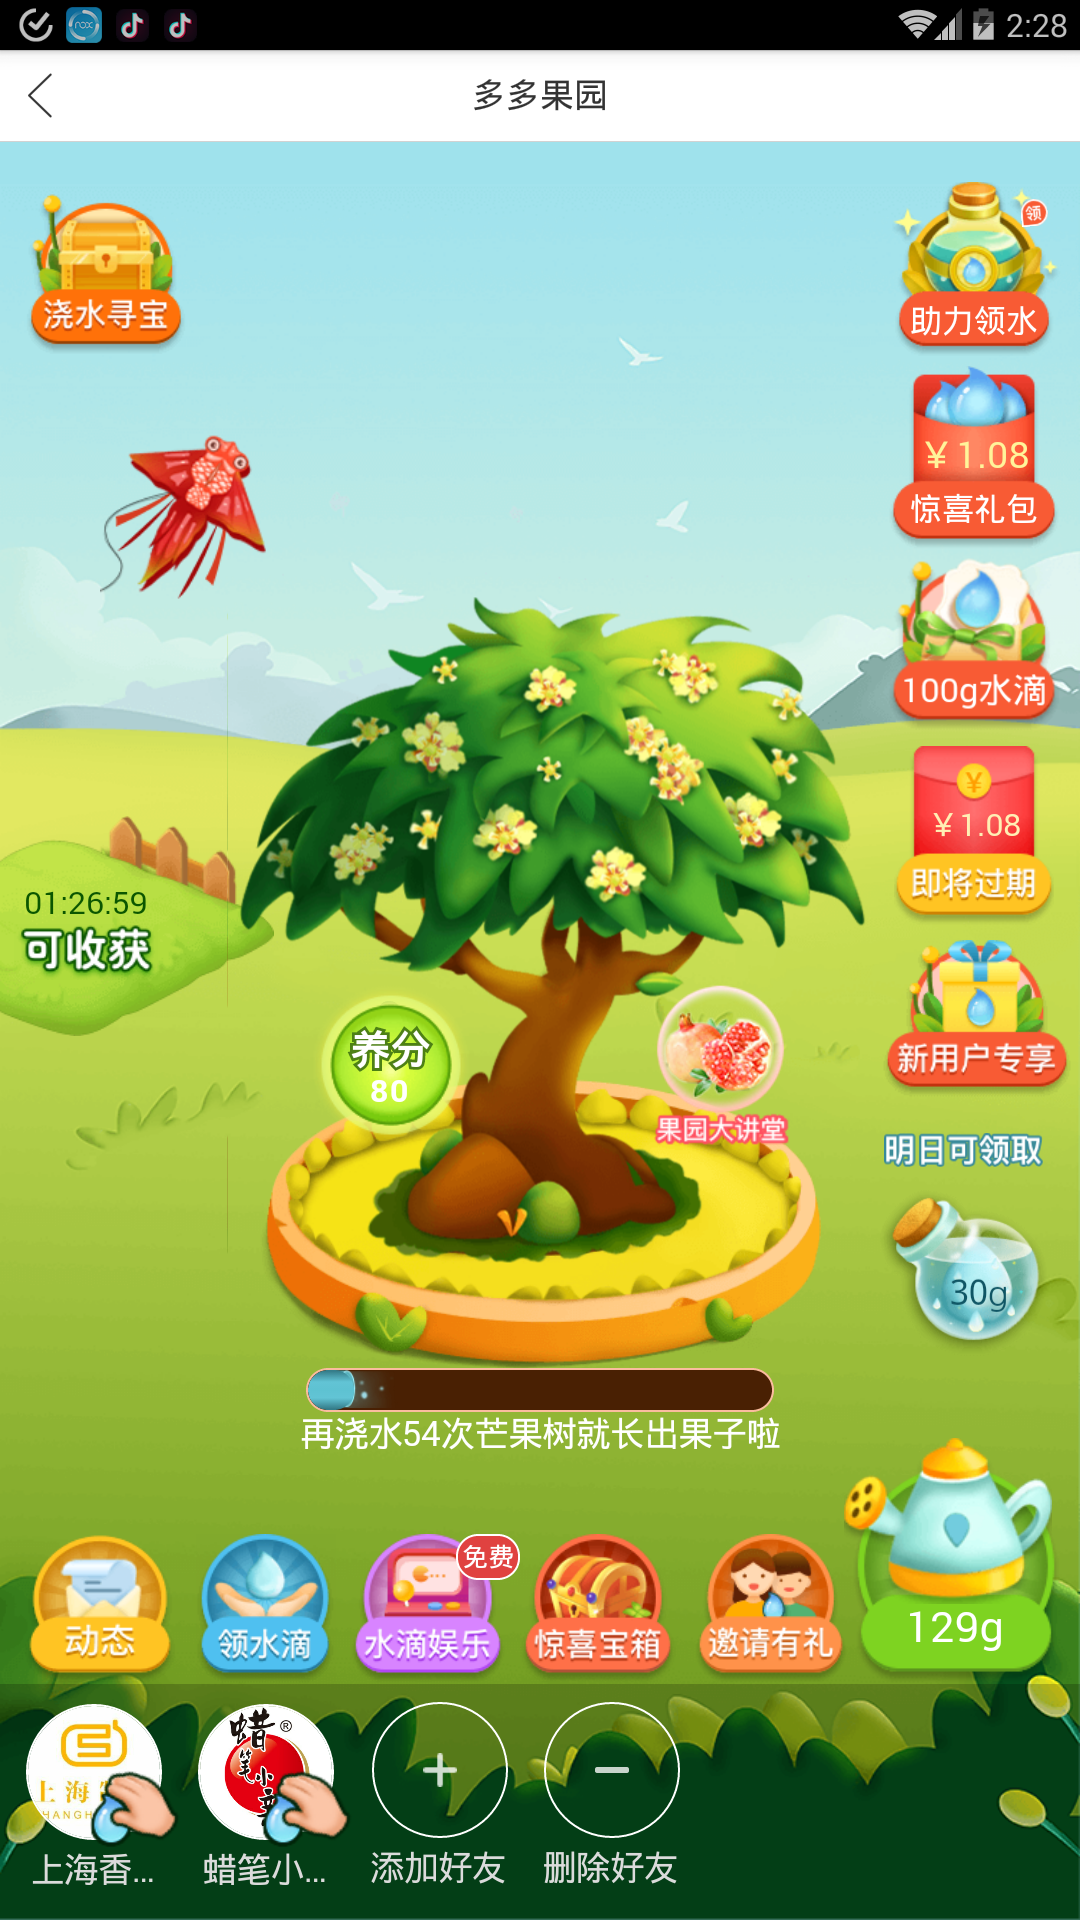
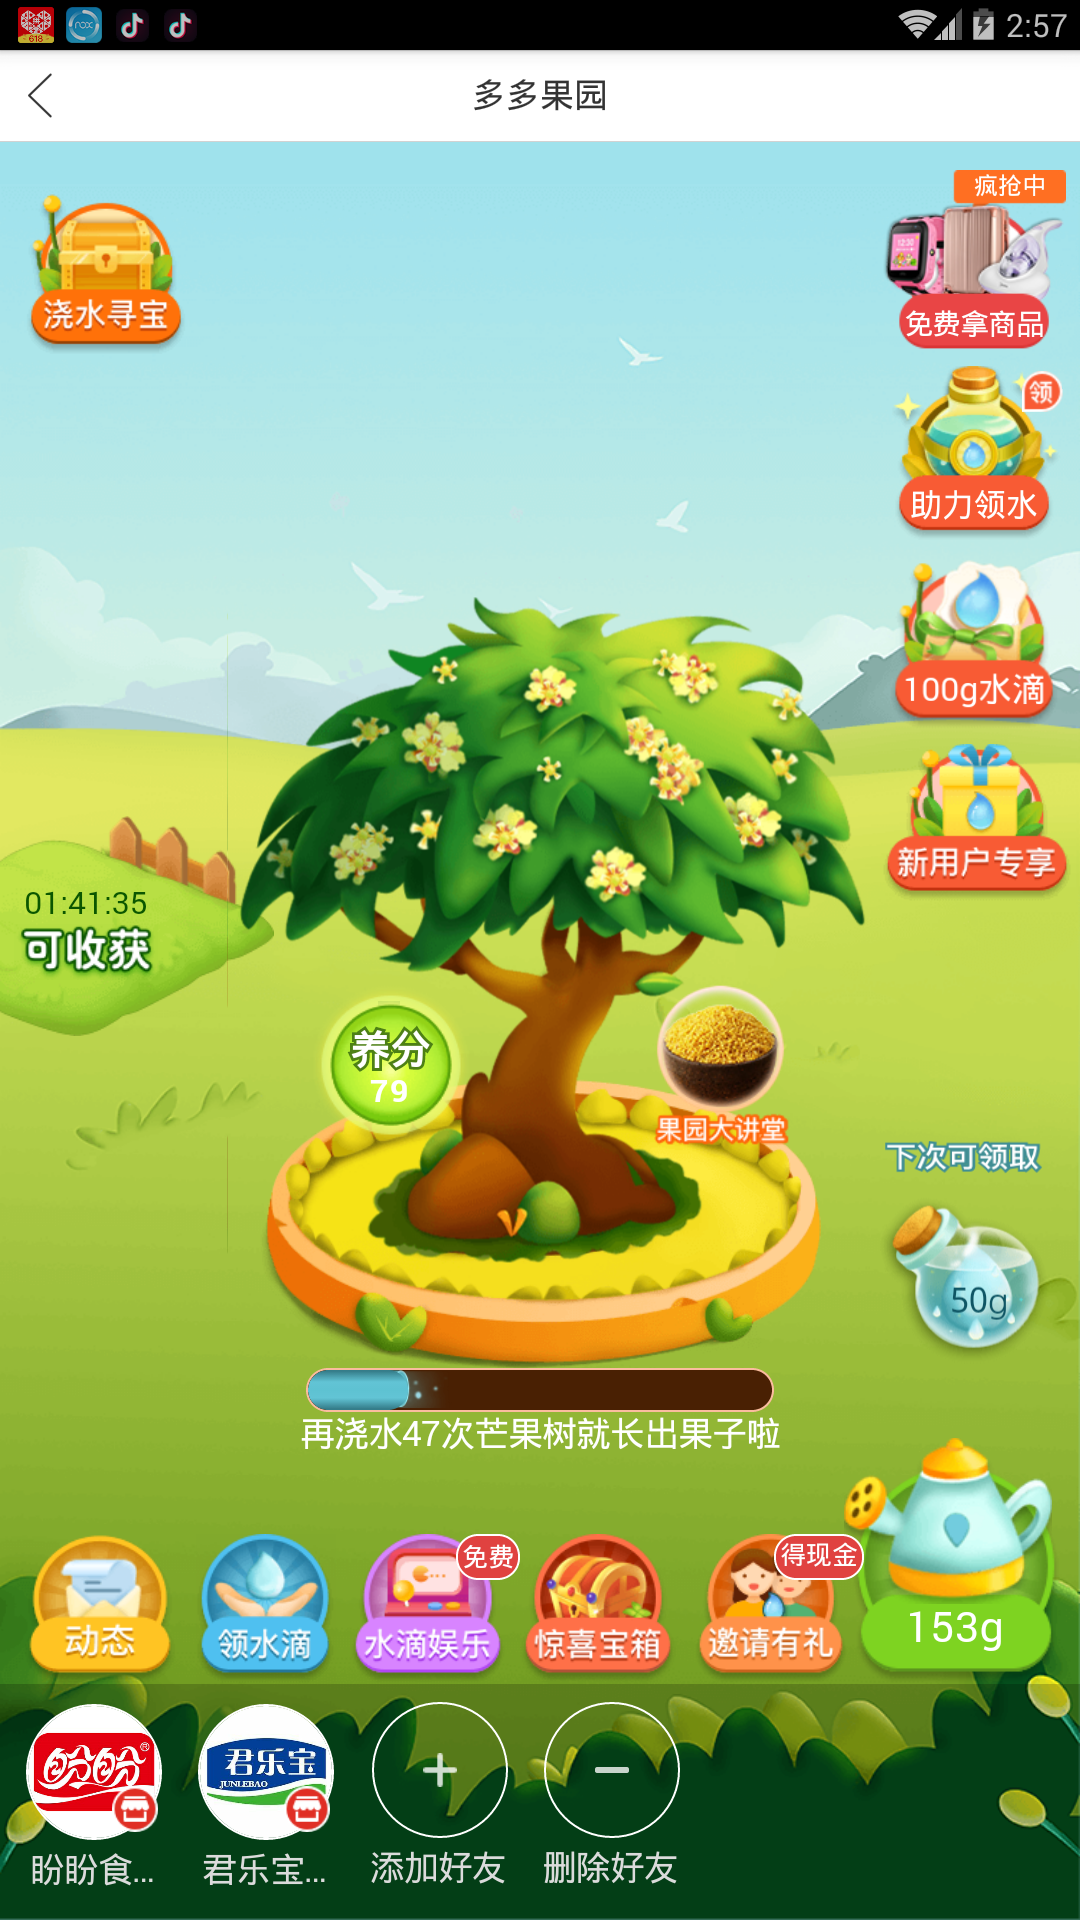
add auto water

diff --git a/拼多多果园辅助/拼多多果园辅助/PinDuoDuo.py b/拼多多果园辅助/拼多多果园辅助/PinDuoDuo.py
@@ -3,6 +3,7 @@ import ImageMatch
 import ImgHelper
 import time
 import os
+import pytesseract
 
 class PinDuoDuoTask(object):
 
@@ -57,6 +58,10 @@ class PinDuoDuoTask(object):
         cv2.imwrite(os.path.join(self.__tempFolder, '%s_check.png' % str(fileName)), img)
         pass
 
+    def WriteNumberOfWaterImg(self, fileName, img):
+        cv2.imwrite(os.path.join(self.__tempFolder, 'NumberOfWater_%s.png' % str(fileName)), img)
+        pass
+
     def Task_SeeGoods(self):
         print("Start see goods task.")
 
@@ -85,6 +90,8 @@ class PinDuoDuoTask(object):
                     self.__adb.PressBackKey()
                     time.sleep(1)
                     self.__adb.Click(x + img_x, y + img_y)
+                    time.sleep(0.5)
+                    self.__adb.PressBackKey()
                     time.sleep(0.5)
                     self.__adb.PressBackKey()
                     time.sleep(0.5)
@@ -140,8 +147,6 @@ class PinDuoDuoTask(object):
                         time.sleep(0.5)
                         self.__adb.PressBackKey()
                         time.sleep(0.5)
-                        self.__adb.PressBackKey()
-                        time.sleep(0.5)
                         pass
                     else:
                         pass
@@ -160,4 +165,31 @@ class PinDuoDuoTask(object):
             pass
 
         print("End daily get water task.");
+        pass
+
+    def Task_AutoWatering(self):
+        print("Start auto watering task.")
+
+        self.UpdateScreenImg()
+        matchResult = ImageMatch.FlannMatch(self.__screenImg, self.__kettleImg)
+        if not matchResult is None:
+            numberOfWaterImg = self.__screenImg[1605:1660 ,874:1024]
+            self.WriteNumberOfWaterImg(waterNumber, numberOfWaterImg)
+            waterNumber = pytesseract.image_to_string(numberOfWaterImg,'osd+eng')
+            waterNumber = int(waterNumber[0:-1])
+
+            if waterNumber < 10:
+                print('water number is less')
+                return
+            else:
+                x, y = ImageMatch.GetMatchResultCentralPoint(matchResult)
+                self.__adb.Click(x, y)
+                time.sleep(16)
+                pass
+            pass
+        else:
+            print("Can't find the kettle.")
+            pass
+
+        print("Start auto watering task.")
         pass

diff --git a/拼多多果园辅助/拼多多果园辅助/拼多多果园辅助.py b/拼多多果园辅助/拼多多果园辅助/拼多多果园辅助.py
@@ -24,8 +24,6 @@ def remove_file():
 
 
 def main():
-    
-
     get_screenshot(0)
     screen = cv2.imread('./temp/0.png', 0)
     shuihu = cv2.imread('shuihu.png', 0)
@@ -57,6 +55,7 @@ def test():
 
     pinDuoDuo = PinDuoDuo.PinDuoDuoTask(androidAdb)
     pinDuoDuo.RemoveTempFiles();
+    #pinDuoDuo.Task_SeeGoods()
     pinDuoDuo.Task_DailyGetWater()
     pass
 
